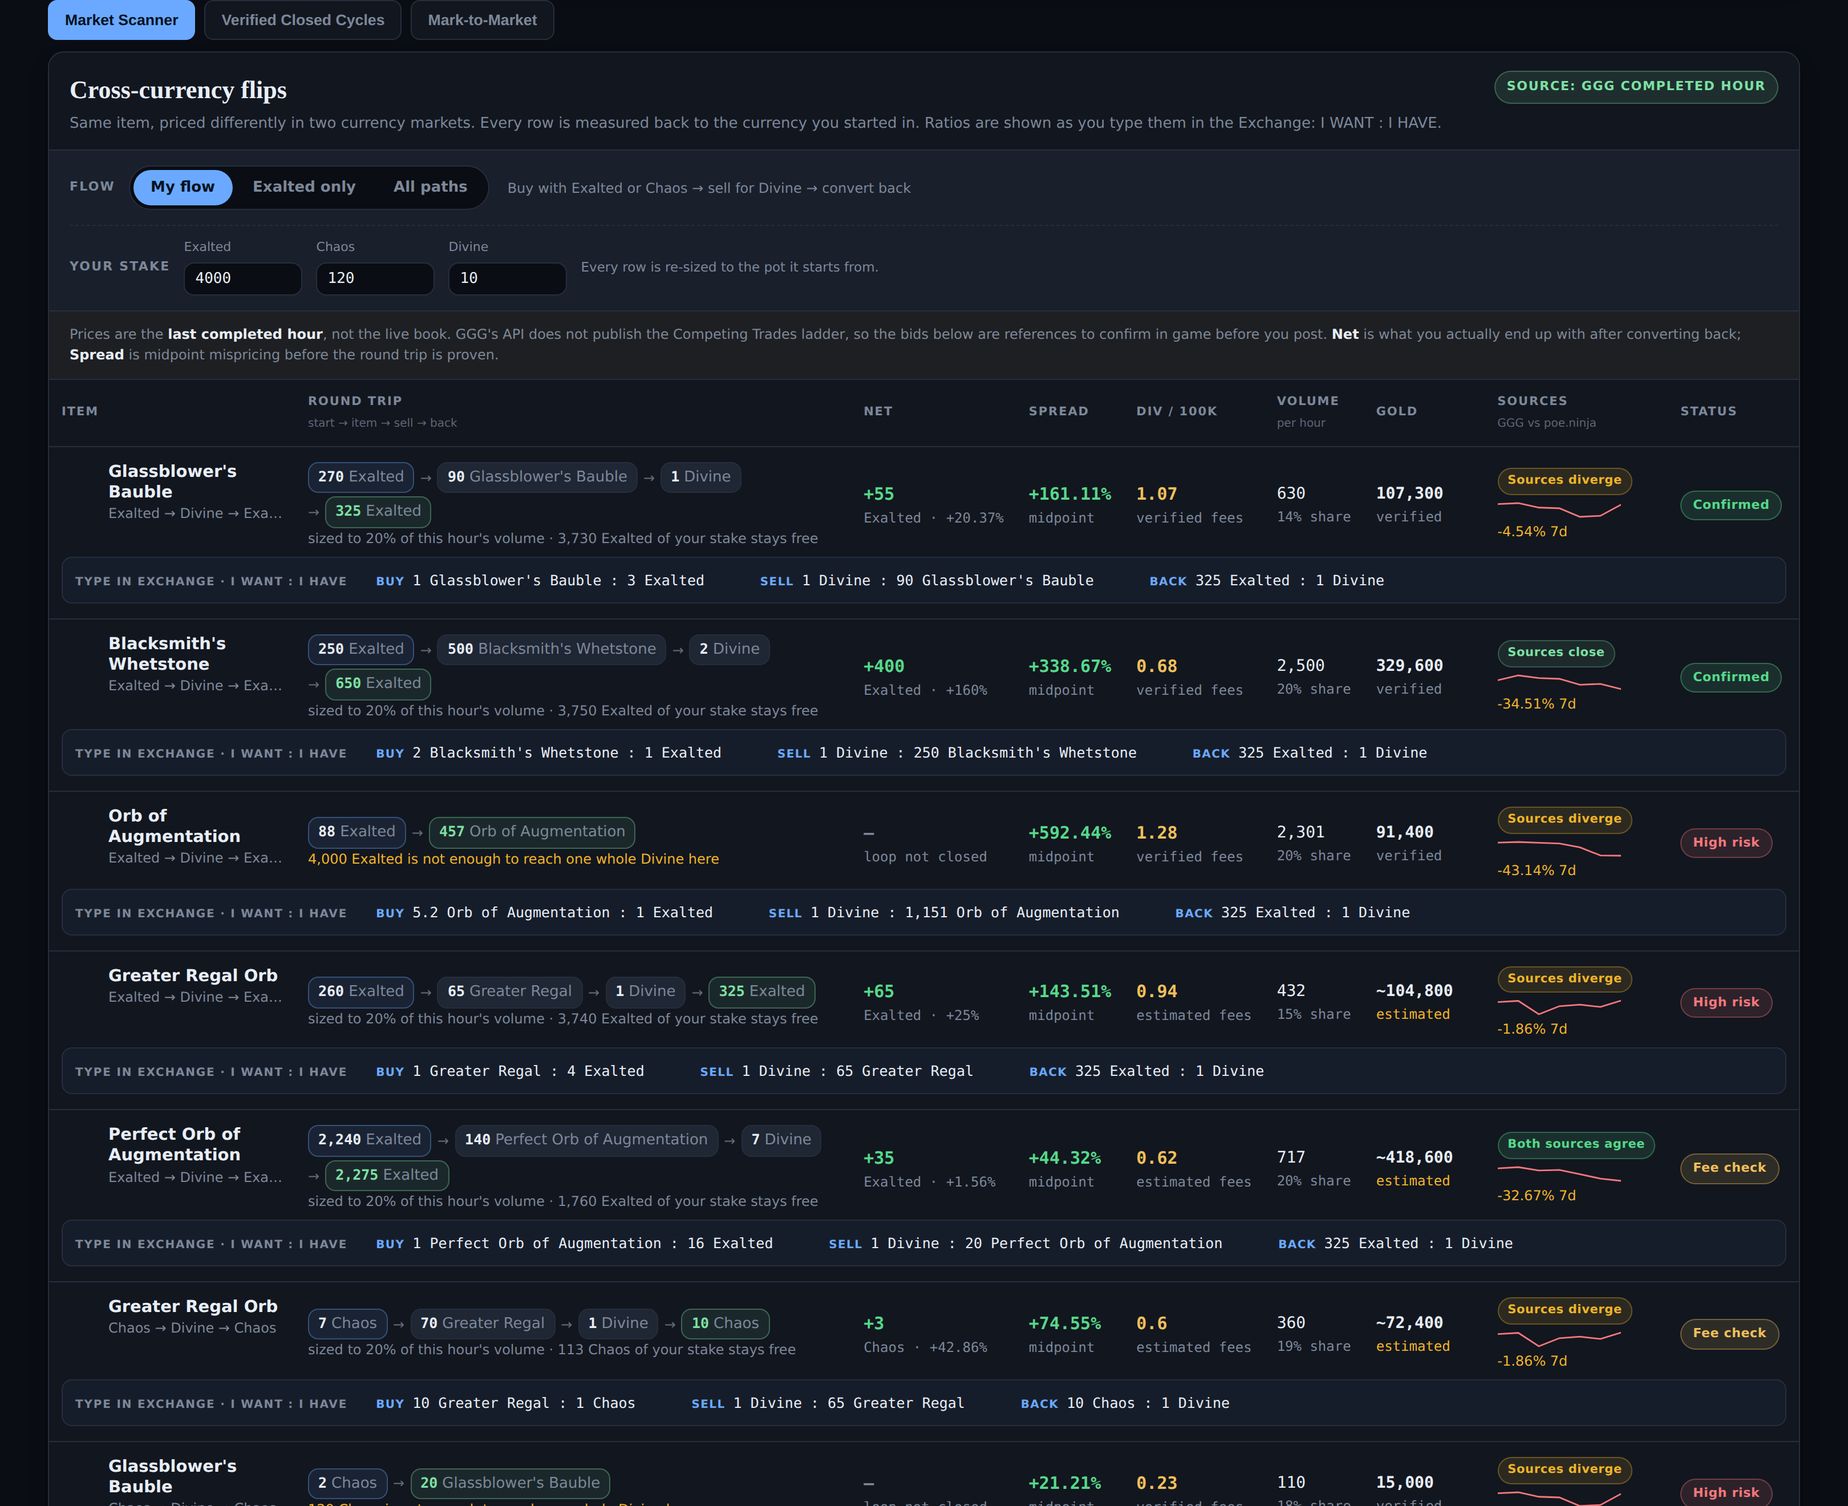
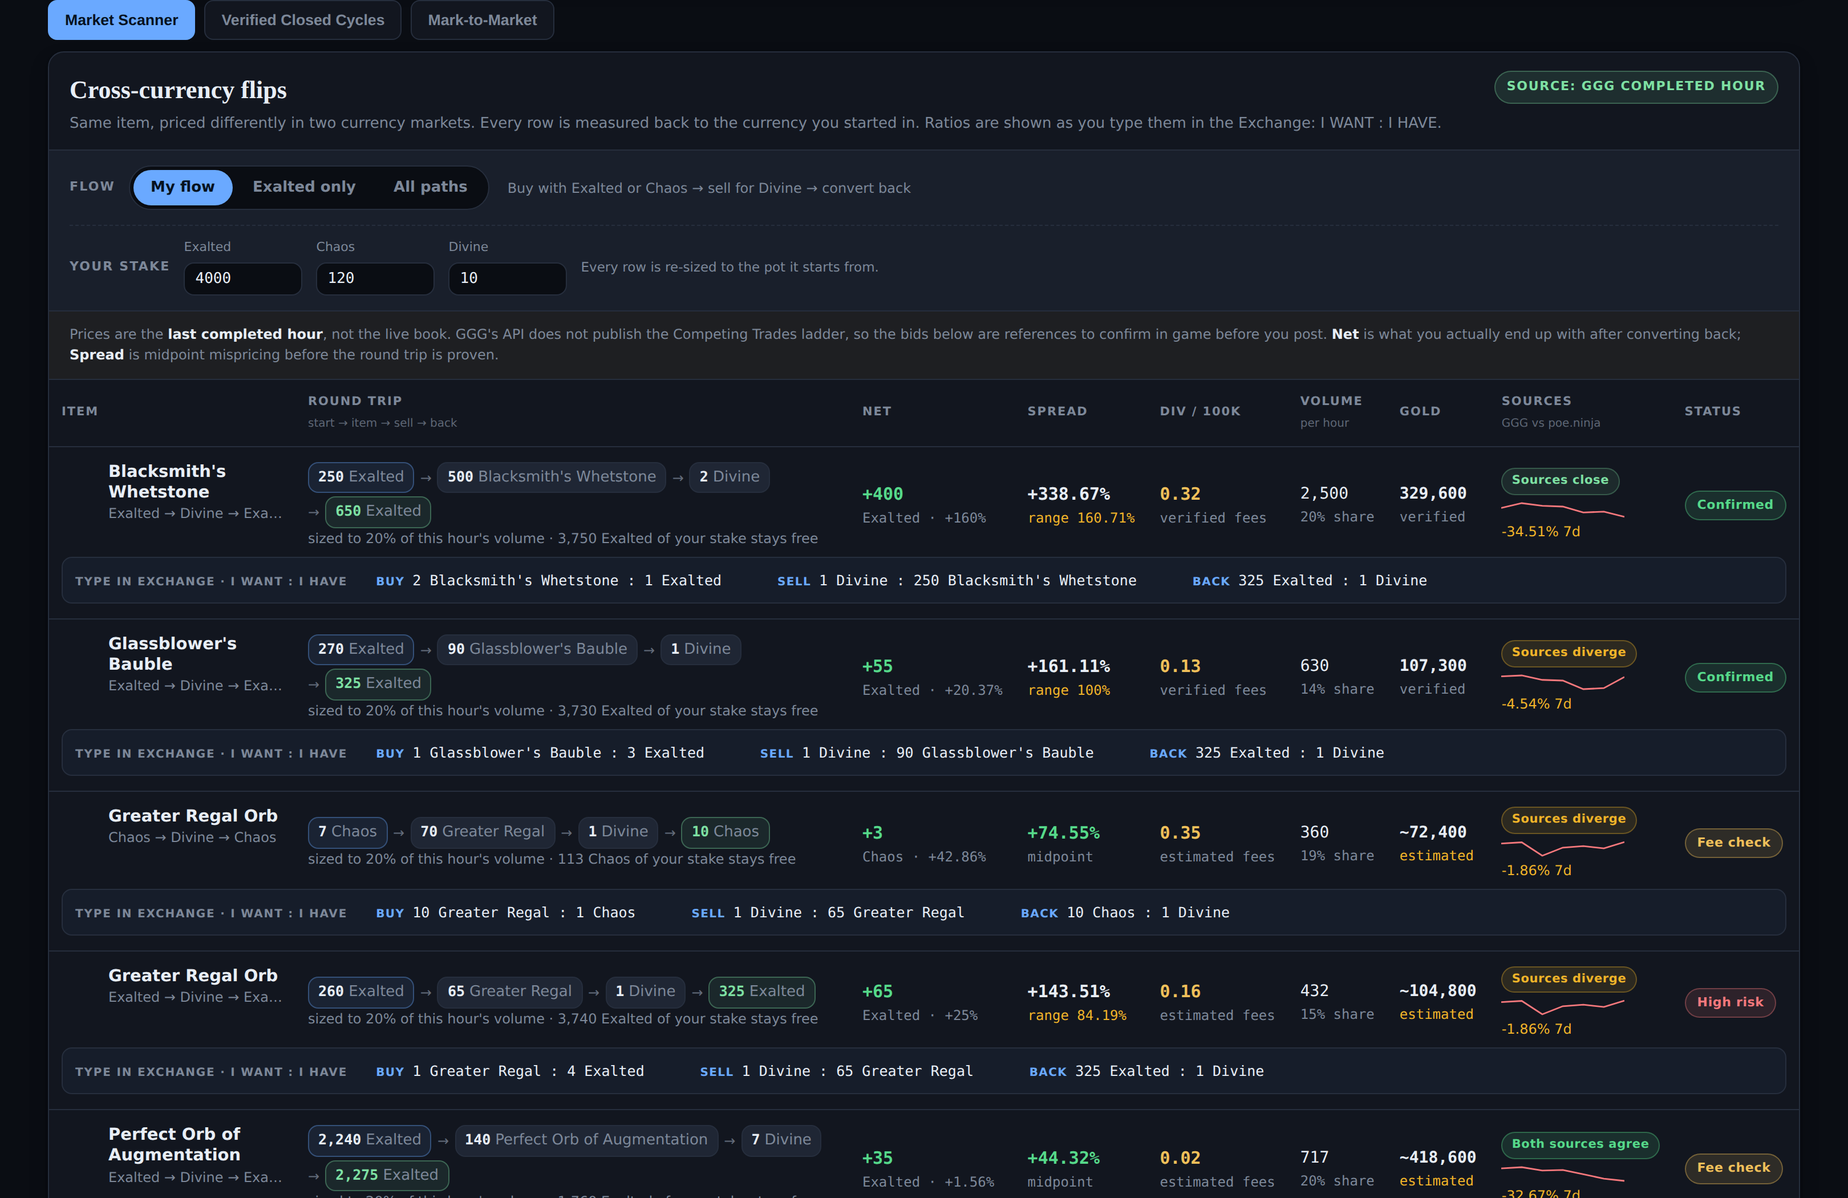
Never rank or dress a losing round trip as an opportunity
Live production showed "Omen of Chaotic Effectiveness" at the top of the list:
52 Chaos in, 22 Chaos out, labelled "Quote only", with "30.64 Div / 100K"
beside "-30 Chaos, -57.69%". Nobody would ever run that trade. Three separate
faults put it there.

1. Gold efficiency came from a different price model than Net.
   spreadDivPer100kGold derives from the midpoint spread, while Net comes from
   the conservative round trip the browser sizes. Two models in adjacent columns
   is exactly what the three-figure separation exists to forbid, and it had been
   reintroduced in the gold column. Div / 100K is now computed from the plan's
   own net, valued through the new SignalFlow.startDivinePrice, so one row means
   one model. Values drop from ~30 to ~0.3 because the old figure measured
   something the player never receives.

2. Sorting by gold efficiency ignored whether the trip profits at all.
   The default comparator had a closed-and-profitable tier but the per-column
   sorts did not, so clicking Div / 100K surfaced the loss. Every column sort is
   now wrapped so profitability at the tradeable size outranks it.

3. A losing plan was presented as a candidate.
   Rows whose own displayed plan ends with less than it started are hidden
   behind a default-on "Hide losing trades" toggle, and when shown carry a red
   "Loses money" chip instead of a neutral classification. On the checked-in
   hour, 27 of 42 rows in My flow lose money; the honest default list is 5.
[…]

diff --git a/public/dashboard.js b/public/dashboard.js
@@ -45,6 +45,7 @@ function saveSettings() {
       flowPreset, scannerSort, bankroll,
       minVolume: $('#minVolume')?.value, minSpread: $('#minSpread')?.value,
       maxGold: $('#maxGold')?.value, hideHighRisk: $('#hideHighRisk')?.checked,
+      hideLosers: $('#hideLosers')?.checked,
     }));
   } catch { /* private mode, or storage disabled: the tool still works */ }
 }
@@ -58,6 +59,7 @@ function loadSettings() {
     const set = (id, v) => { const el = document.getElementById(id); if (el && v != null && v !== '') el.value = v; };
     set('minVolume', saved.minVolume); set('minSpread', saved.minSpread); set('maxGold', saved.maxGold);
     if ($('#hideHighRisk')) $('#hideHighRisk').checked = Boolean(saved.hideHighRisk);
+    if ($('#hideLosers') && saved.hideLosers !== undefined) $('#hideLosers').checked = Boolean(saved.hideLosers);
   } catch { /* ignore malformed state rather than blocking the page */ }
 }
 const { normalizeOpportunityRow } = window.POE2Dashboard;
@@ -131,6 +133,18 @@ function historySection(rows) {
 function cycleRows() { return (run?.routes || []).filter(r => r.cycle?.closed && r.cycle?.executable); }
 function mtmRows() { return (run?.routes || []).filter(r => r.flip && r.strategy === 'two-leg-cross'); }
 const bankrollFor = s => Number(bankroll[shortName(s?.flow?.startCurrency || '')] ?? 0) || 0;
+
+// Gold efficiency MUST come from the same plan as Net. Deriving it from the
+// midpoint spread while Net came from the conservative round trip is how a row
+// showed "30.64 Div / 100K" next to "-30 Chaos": two different price models in
+// adjacent columns, which is exactly what the three-figure separation exists to
+// forbid. Valuing the plan's own net in Divine keeps one model per row.
+function planDivPer100k(s, plan) {
+  if (!plan || plan.net == null || !(plan.gold > 0)) return null;
+  const perStart = Number(s?.flow?.startDivinePrice);
+  if (!Number.isFinite(perStart) || perStart <= 0) return null;
+  return (plan.net * perStart) / plan.gold * 100000;
+}
 const spreadOf = s => Number(s?.priceModel?.twoLegSpreadPct ?? 0);
 const divGoldOf = s => Number(s?.spreadDivPer100kGold ?? s?.estimatedDivPer100kGold ?? -Infinity);
 const goldOf = s => Number(s?.goldVerified ? s.totalGold : s?.estimatedTotalGold ?? Infinity);
@@ -140,7 +154,16 @@ const isConfirmed = s => s?.classification === 'return-confirmed';
 // then gold efficiency, then the lighter liquidity footprint, then depth, then
 // the raw spread. Ranking never reads targetBidPotentialPct.
 const AGREEMENT_RANK = { confirmed: 4, close: 3, 'single-source': 2, diverging: 1, conflicting: 0, undefined: 2 };
-const closesUp = s => Number(s?.flow?.netUnits ?? -Infinity) > 0;
+// Profit at the size you would actually trade. Every sort is layered on top of
+// this, because no ordering — not gold efficiency, not volume — should ever put
+// a trade that loses money above one that makes it.
+const profits = r => Number(r._plan?.net ?? -Infinity) > 0;
+
+// When one hour's ratios span this much, its midpoint is not a price. The
+// Omen markets routinely print 1 Divine : 3 items and 1 Divine : 26 items in
+// the same hour, which is what inflates a midpoint spread to +310%.
+const WILD_RANGE_PCT = 80;
+const wildRange = s => Number(s?.ratioRangePct ?? 0) > WILD_RANGE_PCT;
 
 // ---------------------------------------------------------------------------
 // Bankroll sizing.
@@ -230,23 +253,26 @@ function scaleFlow(s, bankroll) {
 // should: how much of the hour's volume your order would eat, and how much gold
 // it burns.
 //
-const SCANNER_SORTS = {
+const SCANNER_COLUMN_SORTS = {
   default: (a, b) =>
     (isConfirmed(b.discovery) ? 1 : 0) - (isConfirmed(a.discovery) ? 1 : 0)
-    || (closesUp(b.discovery) ? 1 : 0) - (closesUp(a.discovery) ? 1 : 0)
-    || divGoldOf(b.discovery) - divGoldOf(a.discovery)
-    || Number(a.discovery.maxVolumeShare ?? Infinity) - Number(b.discovery.maxVolumeShare ?? Infinity)
+    || Number(b._divGold ?? -Infinity) - Number(a._divGold ?? -Infinity)
+    || Number(a._plan?.volumeShare ?? Infinity) - Number(b._plan?.volumeShare ?? Infinity)
     || Number(b.discovery.itemHourlyVolume || 0) - Number(a.discovery.itemHourlyVolume || 0)
     || spreadOf(b.discovery) - spreadOf(a.discovery),
-  net: (a, b) => Number(b.discovery.flow?.netPct ?? -Infinity) - Number(a.discovery.flow?.netPct ?? -Infinity),
+  net: (a, b) => Number(b._plan?.netPct ?? -Infinity) - Number(a._plan?.netPct ?? -Infinity),
   spread: (a, b) => spreadOf(b.discovery) - spreadOf(a.discovery),
-  divgold: (a, b) => divGoldOf(b.discovery) - divGoldOf(a.discovery),
+  divgold: (a, b) => Number(b._divGold ?? -Infinity) - Number(a._divGold ?? -Infinity),
   volume: (a, b) => Number(b.discovery.itemHourlyVolume || 0) - Number(a.discovery.itemHourlyVolume || 0),
-  gold: (a, b) => goldOf(a.discovery) - goldOf(b.discovery),
+  gold: (a, b) => Number(a._plan?.gold ?? Infinity) - Number(b._plan?.gold ?? Infinity),
   fresh: (a, b) => String(b.discovery.sourceHourUtc || '').localeCompare(String(a.discovery.sourceHourUtc || '')),
   // Best-corroborated first: two agreeing sources beat one, and a conflict sinks.
   sources: (a, b) => AGREEMENT_RANK[b.discovery.sourceCheck?.agreement] - AGREEMENT_RANK[a.discovery.sourceCheck?.agreement],
 };
+
+// Whatever column is chosen, a losing round trip never outranks a winning one.
+const SCANNER_SORTS = Object.fromEntries(Object.entries(SCANNER_COLUMN_SORTS).map(([key, compare]) =>
+  [key, (a, b) => ((profits(b) ? 1 : 0) - (profits(a) ? 1 : 0)) || compare(a, b)]));
 
 function scannerRows() {
   const minVolume = Number($('#minVolume')?.value || 0);
@@ -254,7 +280,13 @@ function scannerRows() {
   const maxGold = Number($('#maxGold')?.value || 0);
   const hideHighRisk = Boolean($('#hideHighRisk')?.checked);
   const preset = FLOW_PRESETS[flowPreset] || FLOW_PRESETS.all;
-  return (run?.routes || []).filter(r => r.discovery).filter(r => {
+  const hideLosers = $('#hideLosers') ? $('#hideLosers').checked : true;
+  return (run?.routes || []).filter(r => r.discovery).map(r => {
+    // Size once per render; filter, sort and every cell read the same plan.
+    r._plan = scaleFlow(r.discovery, bankrollFor(r.discovery));
+    r._divGold = planDivPer100k(r.discovery, r._plan);
+    return r;
+  }).filter(r => {
     if (!window.POE2_DEMO_DATA && !hasPriceModel(r)) return false;
     const s = r.discovery;
     if (!preset.match(s)) return false;
@@ -262,6 +294,10 @@ function scannerRows() {
     if (Number(s.itemHourlyVolume || 0) < minVolume) return false;
     if (spreadOf(s) < minSpread) return false;
     if (hideHighRisk && s.classification === 'high-risk') return false;
+    // A round trip that ends with less than it started is not an opportunity.
+    // Listing it as a candidate is how "52 Chaos in, 22 Chaos out" reached the
+    // top of the table; it stays available behind the toggle, not by default.
+    if (hideLosers && !(Number(r._plan?.net ?? -Infinity) > 0)) return false;
     if (s.goldVerified && maxGold > 0 && Number(s.totalGold || 0) > maxGold) return false;
     return true;
   }).sort(SCANNER_SORTS[scannerSort] || SCANNER_SORTS.default);
@@ -395,9 +431,10 @@ function sourceCellHtml(s) {
 
 function scannerRowHtml(r) {
   const s = r.discovery;
-  const plan = scaleFlow(s, bankrollFor(s));
+  const plan = r._plan;
   const spread = spreadOf(s);
-  const divGold = s.spreadDivPer100kGold == null ? '—' : fmt(s.spreadDivPer100kGold);
+  const divGold = r._divGold == null ? '—' : fmt(r._divGold);
+  const losing = plan && plan.net != null && plan.net <= 0;
   const gold = plan
     ? `<b>${plan.goldKnown ? '' : '~'}${fmtInt(plan.gold)}</b><small class="${plan.goldKnown ? '' : 'warn'}">${plan.goldKnown ? 'verified' : 'estimated'}</small>`
     : `<b>—</b>`;
@@ -407,14 +444,19 @@ function scannerRowHtml(r) {
     'return-confirmed': 'Confirmed', 'fee-check-needed': 'Fee check',
     'return-quote-available': 'Quote only', 'two-leg-spread': 'Spread only', 'high-risk': 'High risk',
   };
-  const cls = s.classification || 'two-leg-spread';
-  const status = `<span class="status ${esc(cls)}" title="${esc(s.classificationLabel || '')}">${esc(SHORT_STATUS[cls] || s.classificationLabel || s.recommendation)}</span>`;
+  // A losing plan is labelled as such regardless of how much of the equation is
+  // proven: "Quote only" reads neutral next to a 58% loss.
+  const cls = losing ? 'loses' : (s.classification || 'two-leg-spread');
+  const status = losing
+    ? `<span class="status loses" title="This round trip ends with less than it started, at the size you can trade">Loses money</span>`
+    : `<span class="status ${esc(cls)}" title="${esc(s.classificationLabel || '')}">${esc(SHORT_STATUS[cls] || s.classificationLabel || s.recommendation)}</span>`;
   return `<tr class="clickable lead" data-id="${esc(r.id)}">`
     + `<td class="cell-item">${ICON(s.item)}<span><b>${esc(s.item.name)}</b><small>${esc(shortName(s.buyCurrency.name))} → ${esc(shortName(s.sellCurrency.name))} → ${esc(shortName(s.buyCurrency.name))}</small></span></td>`
     + `<td class="cell-flow">${flowChainHtml(s, plan)}</td>`
     + netCellHtml(plan)
-    + `<td class="num ${spread > 0 ? 'green' : ''}"><strong>${spread > 0 ? '+' : ''}${fmt(spread)}%</strong><small>midpoint</small></td>`
-    + `<td class="num dg"><strong>${divGold}</strong><small>${s.goldVerified ? 'verified fees' : 'estimated fees'}</small></td>`
+    + `<td class="num ${spread > 0 && !wildRange(s) ? 'green' : ''}"><strong>${spread > 0 ? '+' : ''}${fmt(spread)}%</strong>`
+      + `<small class="${wildRange(s) ? 'warn' : ''}">${wildRange(s) ? `range ${fmt(s.ratioRangePct)}%` : 'midpoint'}</small></td>`
+    + `<td class="num dg ${r._divGold != null && r._divGold < 0 ? 'red' : ''}"><strong>${divGold}</strong><small>${s.goldVerified ? 'verified fees' : 'estimated fees'}</small></td>`
     + `<td class="num">${fmt(s.itemHourlyVolume)}<small class="${plan && plan.volumeShare > MARKET_SHARE_CAP + 1e-9 ? 'warn' : ''}">${plan ? pct(plan.volumeShare, 0) : pct(s.maxVolumeShare, 0)} share</small></td>`
     + `<td class="num">${gold}</td>`
     + sourceCellHtml(s)
@@ -569,7 +611,7 @@ document.querySelectorAll('[data-tab]').forEach(b => b.onclick = () => { tab = b
 loadSettings();
 renderFlowPresets();
 ['minVolume','minSpread','maxGold'].forEach(id => document.getElementById(id)?.addEventListener('input', () => { saveSettings(); render(); }));
-document.getElementById('hideHighRisk')?.addEventListener('change', () => { saveSettings(); render(); });
+['hideHighRisk','hideLosers'].forEach(id => document.getElementById(id)?.addEventListener('change', () => { saveSettings(); render(); }));
 $('#search')?.addEventListener('input', event => { search = event.target.value.trim().toLowerCase(); render(); });
 document.querySelectorAll('[data-bankroll]').forEach(input => {
   input.value = bankroll[input.dataset.bankroll] ?? 0;

diff --git a/test/currency-rate-ui.test.ts b/test/currency-rate-ui.test.ts
@@ -86,10 +86,10 @@ describe("currency reference UI model", () => {
 
   it("ranks scanner results by proof, then gold efficiency, then liquidity footprint", () => {
     const dashboard = readFileSync(new URL("../public/dashboard.js", import.meta.url), "utf8");
-    const comparator = dashboard.slice(dashboard.indexOf("const SCANNER_SORTS"), dashboard.indexOf("function scannerRows"));
+    const comparator = dashboard.slice(dashboard.indexOf("const SCANNER_COLUMN_SORTS"), dashboard.indexOf("function scannerRows"));
     const proof = comparator.indexOf("isConfirmed(b.discovery)");
-    const efficiency = comparator.indexOf("divGoldOf(b.discovery)", proof);
-    const share = comparator.indexOf("maxVolumeShare", efficiency);
+    const efficiency = comparator.indexOf("b._divGold", proof);
+    const share = comparator.indexOf("volumeShare", efficiency);
     const spread = comparator.indexOf("spreadOf(b.discovery)", share);
     expect(proof).toBeGreaterThan(-1);
     expect(efficiency).toBeGreaterThan(proof);
@@ -107,16 +107,37 @@ describe("currency reference UI model", () => {
     expect(presets).toContain("All paths");
   });
 
-  it("ranks a closed, profitable round trip above a bare gold-efficiency score", () => {
-    // Div / 100K Gold is measured on the midpoint spread, so on its own it
-    // floats rows whose actual loop loses money to the top — the opposite of
-    // the question the scanner is asked.
+  it("never ranks a losing round trip above a profitable one, under ANY sort", () => {
+    // A row showing "30.64 Div / 100K" beside "-30 Chaos" reached the top of the
+    // live table purely by sorting on gold efficiency. Profitability at the size
+    // you can actually trade is now layered over every column sort.
     const dashboard = readFileSync(new URL("../public/dashboard.js", import.meta.url), "utf8");
-    const comparator = dashboard.slice(dashboard.indexOf("const SCANNER_SORTS"), dashboard.indexOf("function scannerRows"));
-    const closed = comparator.indexOf("closesUp(b.discovery)");
-    const efficiency = comparator.indexOf("divGoldOf(b.discovery)", closed);
-    expect(closed).toBeGreaterThan(-1);
-    expect(efficiency).toBeGreaterThan(closed);
+    expect(dashboard).toContain("const profits = r => Number(r._plan?.net ?? -Infinity) > 0;");
+    const wrapper = dashboard.slice(dashboard.indexOf("const SCANNER_SORTS = Object.fromEntries"));
+    expect(wrapper).toContain("(profits(b) ? 1 : 0) - (profits(a) ? 1 : 0)");
+  });
+
+  it("derives gold efficiency from the SAME plan as Net, not the midpoint spread", () => {
+    // Two price models in adjacent columns is what produced "+30.64 Div / 100K"
+    // beside a 58% loss.
+    const dashboard = readFileSync(new URL("../public/dashboard.js", import.meta.url), "utf8");
+    const fn = dashboard.slice(dashboard.indexOf("function planDivPer100k"), dashboard.indexOf("const spreadOf"));
+    expect(fn).toContain("plan.net");
+    expect(fn).toContain("startDivinePrice");
+    expect(fn).not.toContain("spreadDivPer100kGold");
+    const row = dashboard.slice(dashboard.indexOf("function scannerRowHtml"), dashboard.indexOf("function closedRowHtml"));
+    expect(row).toContain("r._divGold");
+    expect(row).not.toContain("s.spreadDivPer100kGold");
+  });
+
+  it("labels a losing round trip as a loss, and hides such rows by default", () => {
+    const dashboard = readFileSync(new URL("../public/dashboard.js", import.meta.url), "utf8");
+    const row = dashboard.slice(dashboard.indexOf("function scannerRowHtml"), dashboard.indexOf("function closedRowHtml"));
+    expect(row).toContain("Loses money");
+    expect(row).toContain("const cls = losing ?");
+    // Default-on: a trade that ends with less than it started is not a candidate.
+    const html = readFileSync(new URL("../public/index.html", import.meta.url), "utf8");
+    expect(html).toMatch(/id="hideLosers"[^>]*checked/);
   });
 
   it("shows the whole round trip in the row, ending in the starting currency", () => {

diff --git a/src/domain/market-signals.ts b/src/domain/market-signals.ts
@@ -276,6 +276,7 @@ function buildFlow(
   finalUnits: number | null,
   totalGold: number | null,
   estimatedTotalGold: number,
+  startDivinePrice: number | null,
 ): SignalFlow {
   const step = (
     action: SignalFlowStep["action"],
@@ -303,6 +304,7 @@ function buildFlow(
     finalUnits: closes ? finalUnits : null,
     netUnits: closes ? finalUnits! - startUnits : null,
     netPct: closes && startUnits > 0 ? (finalUnits! / startUnits - 1) * 100 : null,
+    startDivinePrice,
     totalGold,
     estimatedTotalGold,
     closesInStartCurrency: closes,
@@ -447,7 +449,7 @@ export function buildMarketSignalRows(
           goldEstimateBasis: unknownFee?.basis ?? null,
           estimatedProfitDivine, estimatedDivPer100kGold: perGold(estimatedProfitDivine),
           flow: buildFlow(startIdentity, item, sellIdentity, buyLeg, sellLeg, returnLeg,
-            startUnits, sizingFits ? final : null, totalGold, estimatedTotalGold),
+            startUnits, sizingFits ? final : null, totalGold, estimatedTotalGold, toDivineRate),
           liquidityLabel: liquidityBand(maxShare),
           sourceCheck: {
             gggDivine: cross.gggDivine, ninjaDivine: cross.ninjaDivine,

diff --git a/public/index.html b/public/index.html
@@ -32,6 +32,7 @@
       <label>Min volume/hr<input id="minVolume" type="number" min="0" step="1" value="10"></label>
       <label>Min spread<input id="minSpread" type="number" min="0" step="1" value="0"><small>%</small></label>
       <label>Max verified gold<input id="maxGold" type="number" min="0" step="10000" value="500000"><small>0 = no cap</small></label>
+      <label class="toggle"><input id="hideLosers" type="checkbox" checked>Hide losing trades</label>
       <label class="toggle"><input id="hideHighRisk" type="checkbox">Hide high risk</label>
       <button id="refresh">Refresh live data</button>
     </section>

diff --git a/src/domain/types.ts b/src/domain/types.ts
@@ -455,6 +455,9 @@ export interface SignalFlow {
   /** finalUnits - startUnits, in the starting currency. The number that matters. */
   netUnits: number | null;
   netPct: number | null;
+  /** Divine per 1 unit of the starting currency, so a re-sized plan can be
+   *  valued in Divine without reaching for a different price model. */
+  startDivinePrice: number | null;
   /** Total gold across all three steps; null when any fee is unverified. */
   totalGold: number | null;
   /** Same total using the labeled category fallback for unverified fees. */

diff --git a/public/dashboard.css b/public/dashboard.css
@@ -307,3 +307,6 @@ td.red, .red { color: var(--red); }
 .spark polyline { fill: none; stroke: var(--muted); stroke-width: 1.4; vector-effect: non-scaling-stroke; }
 .spark.up polyline { stroke: var(--green); }
 .spark.down polyline { stroke: var(--red); }
+
+/* A losing round trip is never dressed as an opportunity. */
+.status.loses { background: rgba(245,120,124,.16); color: var(--red); border-color: rgba(245,120,124,.5); }
